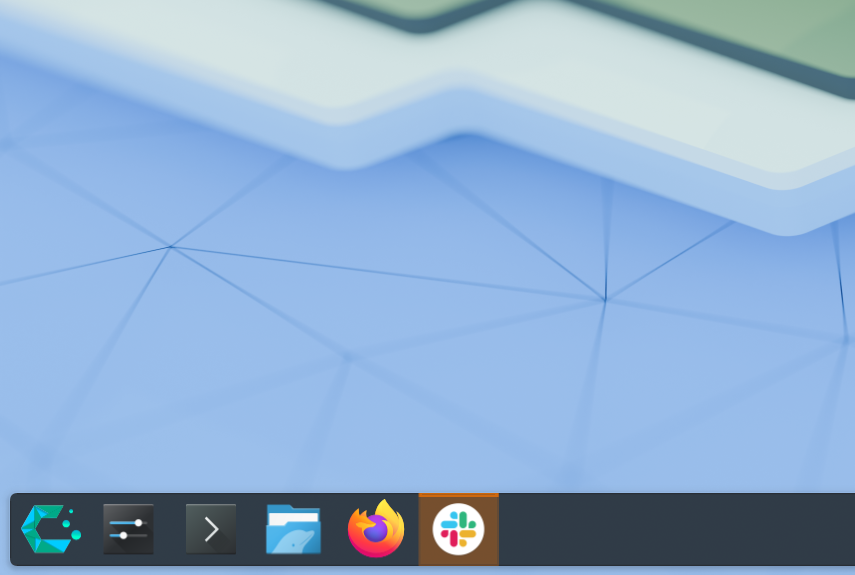
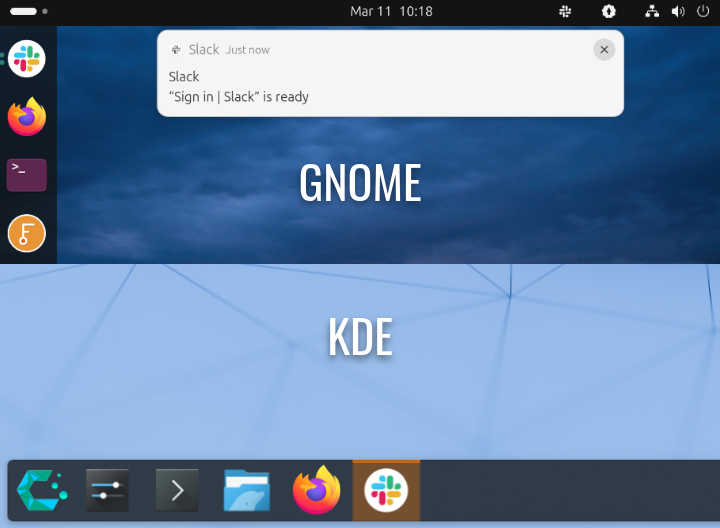
final edit

diff --git a/blog/tech-talk-wayland.md b/blog/tech-talk-wayland.md
@@ -33,7 +33,7 @@ But running apps through a compatibility layer is not the same as running them d
 
 ![Screenshot of an Electron app running natively on Wayland, demonstrating support for wide gamut color and HDR](/assets/img/blog/tech-talk-wayland/hdr.png)
 
-These are all good reasons for Electron apps to make the switch. In late September, Electron followed Chromium’s lead and began [defaulting to Wayland](https://www.electronjs.org/blog/electron-38-0#removed-electron_ozone_platform_hint-environment-variable). As apps began to update, people who had been “using Wayland” without issues for months or years started to find out what it was really like to experience their apps on Wayland for the first time.
+These are all good reasons for Electron apps to make the switch. In late September, Electron followed Chromium’s lead and began [defaulting to Wayland](https://www.electronjs.org/blog/electron-38-0#removed-electron_ozone_platform_hint-environment-variable). And as apps began to update, people who had been “using Wayland” without issues for months or years started to find out what it was really like to experience their apps on Wayland for the first time.
 
 ## Wayland’s house, Wayland’s rules
 
@@ -45,15 +45,15 @@ Supporting Wayland required [dozens of changes](https://github.com/electron/elec
 - Choose where to position their own windows on the screen (and which physical monitor to appear on)
 - Resize their windows at any time
 
-Wayland’s answer to these questions is essentially “no.” When you open a window on Wayland, the compositor — not the app developer — decides where it goes. Apps can't change their size, position, or focus without user input, and they can only interact with the rest of the desktop through optional [protocol extensions](https://wayland.app/protocols/) and [XDG portals](https://flatpak.github.io/xdg-desktop-portal/).
+Wayland’s answer to these questions is essentially “no.” When you open a window on Wayland, the compositor — not the app developer — decides where it goes. Apps cannot unilaterally change their size, position, or focus without user input, and they can only interact with the rest of the desktop through optional [protocol extensions](https://wayland.app/protocols/) and [XDG portals](https://flatpak.github.io/xdg-desktop-portal/).
 
-These kinds of rules are understandable; no one likes it when misbehaving apps steal focus or draw halfway off the screen. But for a cross-platform framework like Electron, Wayland's design philosophy makes it harder for developers to achieve consistency.
+These kinds of rules are understandable; no one likes it when misbehaving apps steal focus or appear halfway off the screen. But for a cross-platform framework like Electron, Wayland's design philosophy makes it harder for developers to achieve consistency. Behaviors that work just fine across macOS, Windows, and Linux (X11), might work differently or not at all on Wayland.
 
-In practice, Electron apps have more restrictions on Wayland than they do on X11 and other platforms. Some widely used APIs, like [`win.setPosition(x, y)`](https://www.electronjs.org/docs/latest/api/base-window#winsetpositionx-y-animate), simply don't work on Wayland.
+In practice, Electron apps face more restrictions on Wayland. Some widely used APIs, like [`win.setPosition(x, y)`](https://www.electronjs.org/docs/latest/api/base-window#winsetpositionx-y-animate) and [`screen.getCursorScreenPoint()`](https://www.electronjs.org/docs/latest/api/screen#screengetcursorscreenpoint), simply aren't possible to support.
 
-Making this more complicated is that Wayland is not a single piece of software, but a protocol. Each desktop environment has its own Wayland compositor, and their implementations differ almost like browser engines. On GNOME (Mutter), for example, [`BrowserWindow.focus()`](https://www.electronjs.org/docs/latest/api/browser-window#winfocus) will silently fail, but on KDE Plasma (KWin), the app will flash its icon in the panel. Both of these are valid interpretations of [the spec](https://wayland.app/protocols/xdg-activation-v1).
+Making this more complicated is the fact that Wayland isn't a single piece of software, but a protocol. Every desktop environment brings along its own Wayland compositor, and their implementations differ almost like browser engines. On GNOME (Mutter), for example, calling [`win.focus()`](https://www.electronjs.org/docs/latest/api/browser-window#winfocus) on an unfocused window shows a notification. On KDE Plasma (KWin), the app flashes its icon in the panel. These decisions are made by the compositor, and both are valid interpretations of [the spec](https://wayland.app/protocols/xdg-activation-v1).
 
-![Screenshot of Slack flashing its app icon in the panel on KDE instead of receiving focus](/assets/img/blog/tech-talk-wayland/focus.png)
+![Screenshot comparing what happens when Slack tries to focus itself on GNOME and KDE](/assets/img/blog/tech-talk-wayland/focus.png)
 
 On the other hand, some capabilities work better across the board on Wayland, especially around colors, transparency, and hardware-accelerated rendering. Other APIs like [`win.setOpacity(n)`](https://www.electronjs.org/docs/latest/api/base-window#winsetopacityopacity-windows-macos) do not currently work on Linux, but they are now more feasible to support.
 
